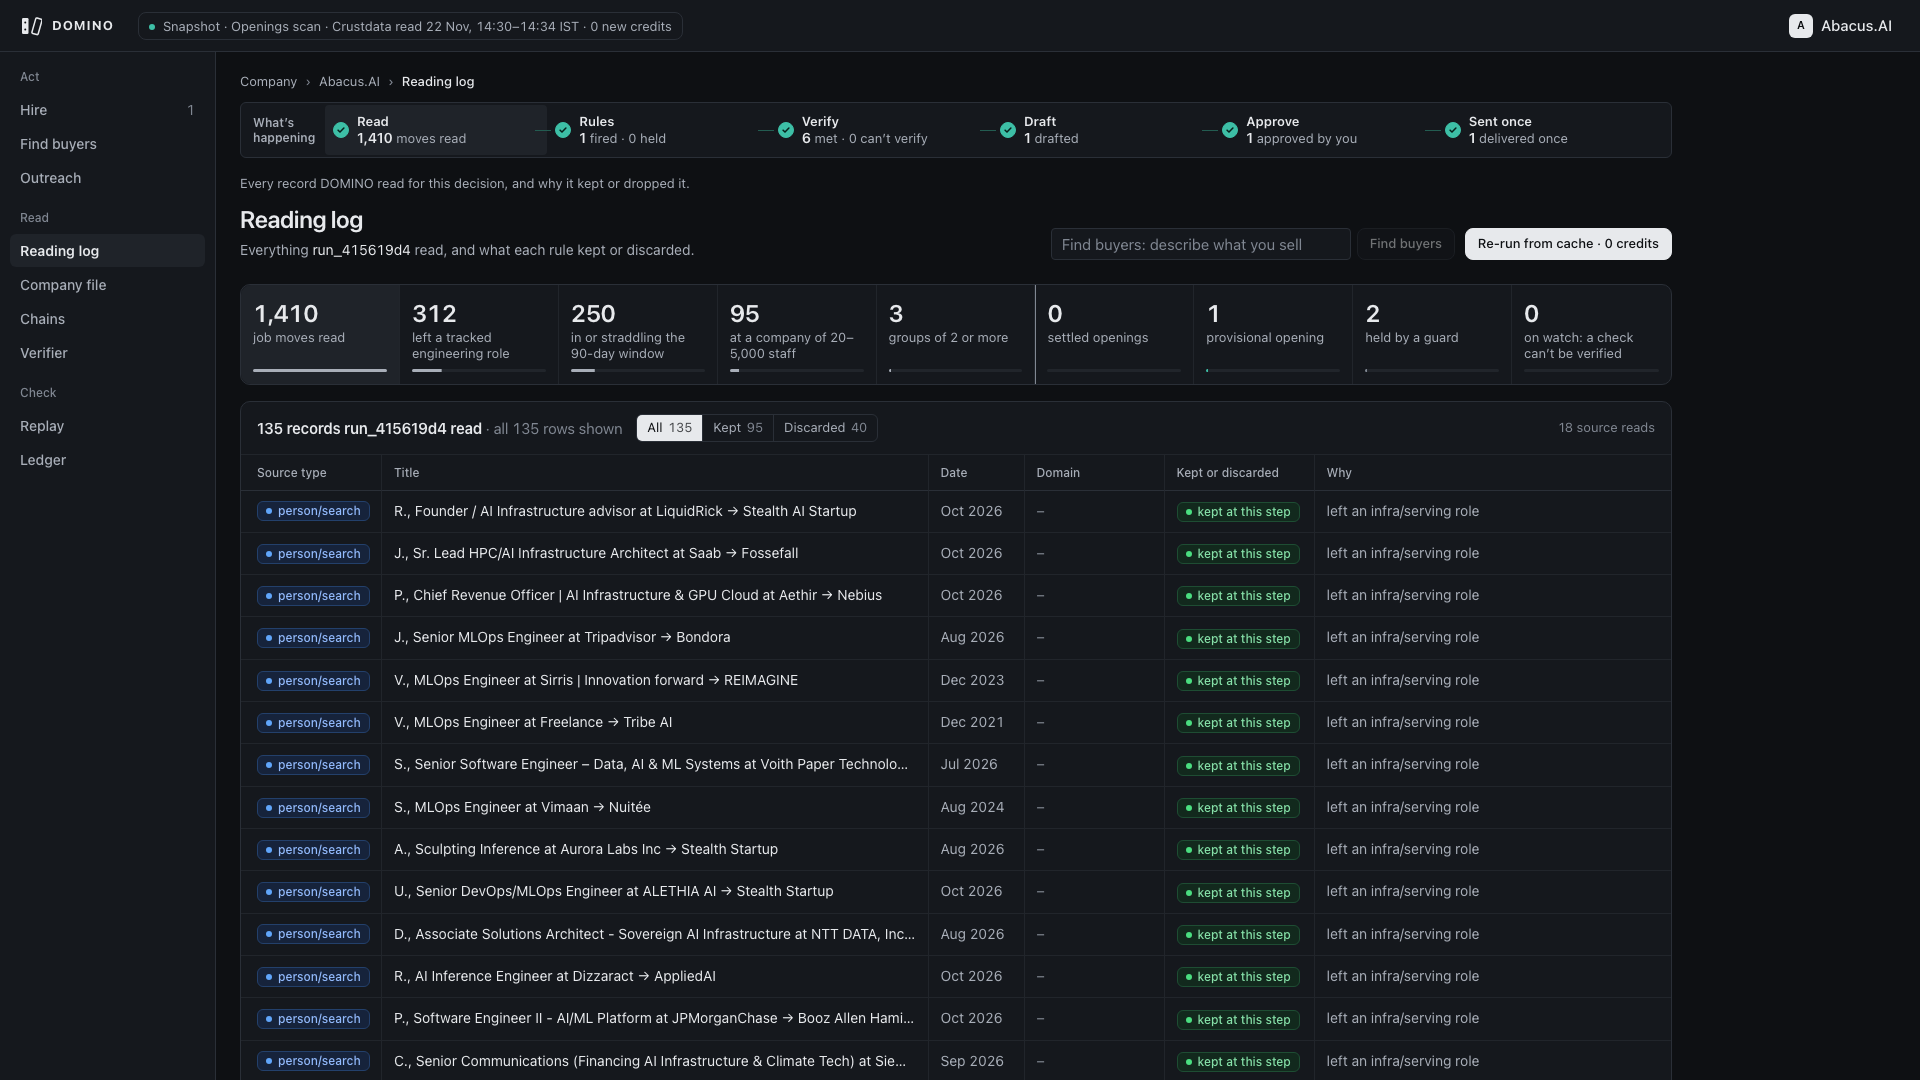
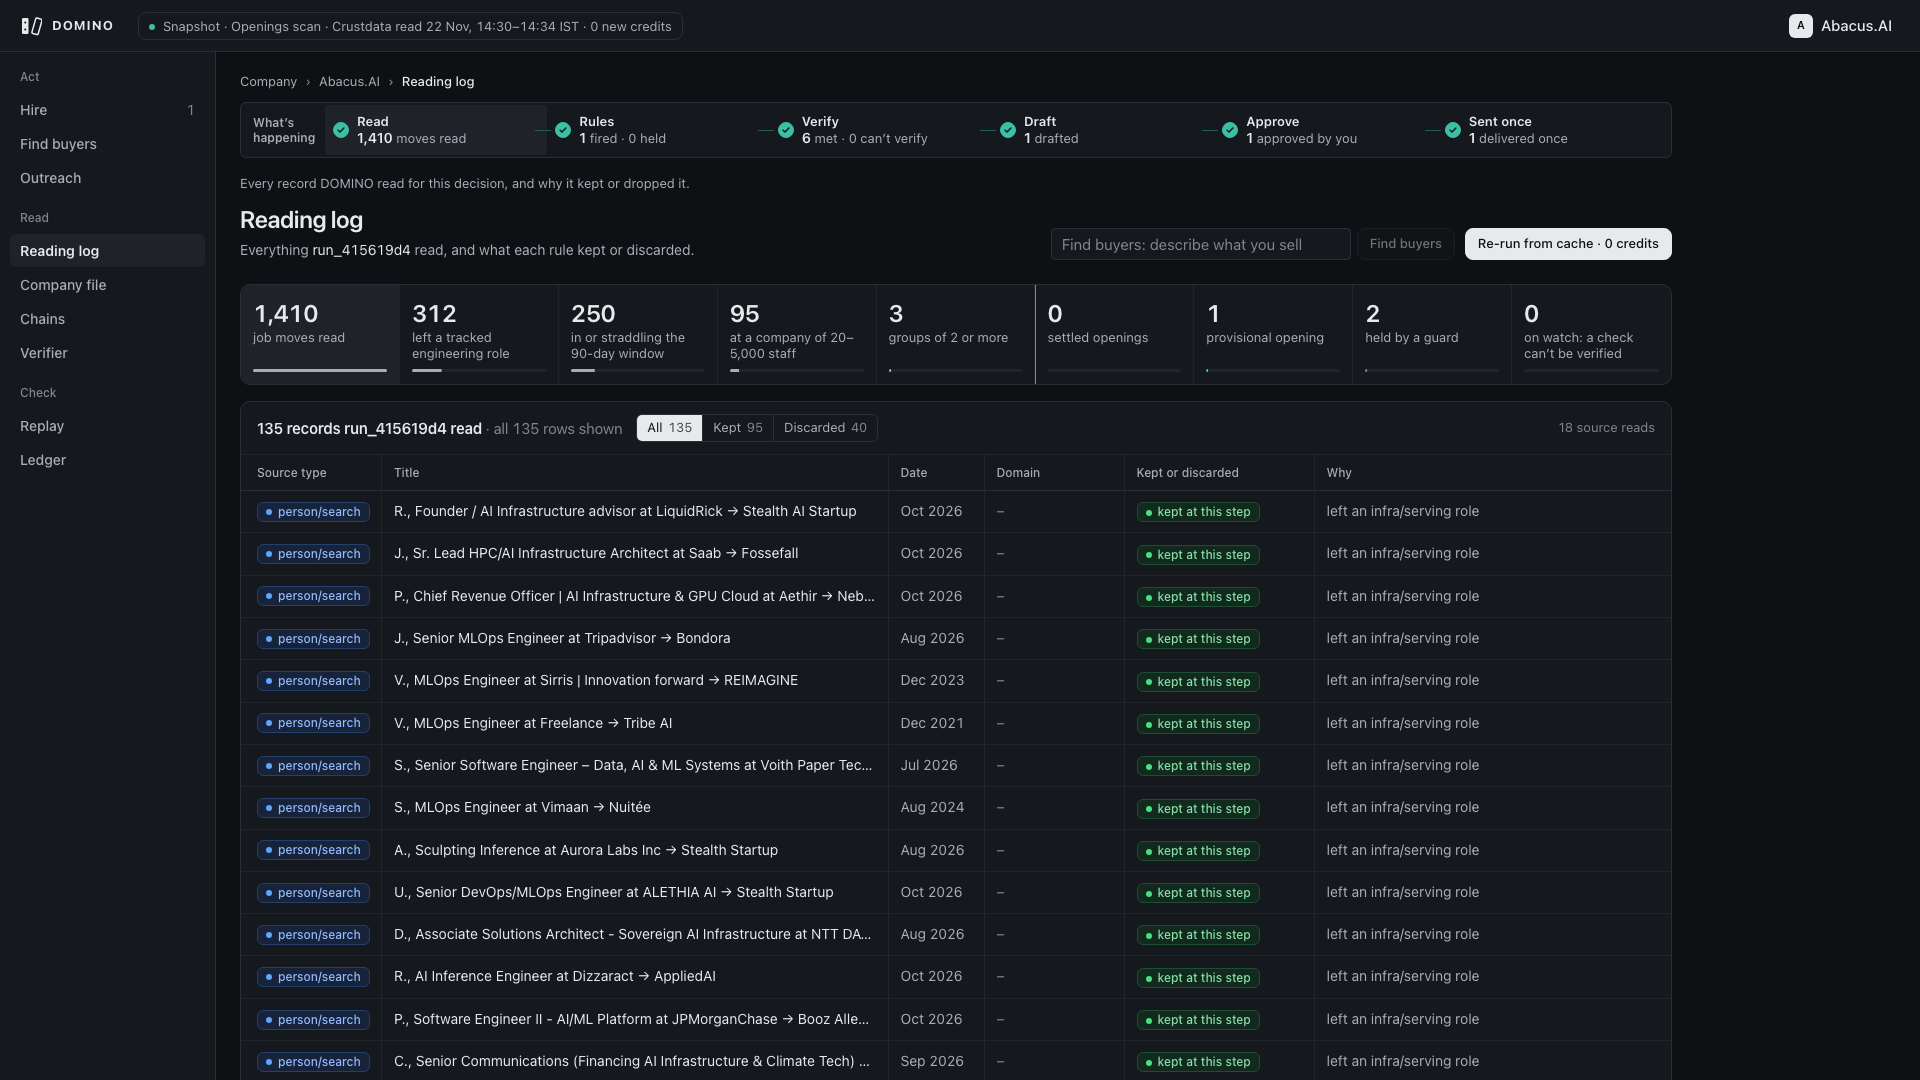
Reading log: discarded rows are neutral grey (tone-not-evaluated) labelled "Discarded · reason"; red stays for not met / can't verify

diff --git a/web2/src/features/reading/Reading.tsx b/web2/src/features/reading/Reading.tsx
@@ -291,7 +291,7 @@ const Row = memo(function Row({ r, settled }: { r: LogRow; settled: boolean }) {
       <td className="rd-title" title={r.title}>{r.title}</td>
       <td className="rd-date" title={r.monthLevel ? 'month-level date' : undefined}>{r.date}</td>
       <td className={r.domain ? 'mono rd-dom' : 'faint'} title={r.domain ?? 'no domain on record'}>{r.domain ?? '–'}</td>
-      <td className="rd-dec"><DecisionMark d={r.decision} /></td>
+      <td className="rd-dec"><DecisionMark d={r.decision} why={r.why[0]} /></td>
       <td className="muted rd-why">{r.why.map((w, i) => <Clause key={i} text={w} />)}</td>
     </tr>
   );
@@ -305,12 +305,14 @@ function Clause({ text }: { text: string }) {
 }
 
 /** Decision and source chips use the shared colour classes (styles/colors.css): one hue per meaning on every screen. */
+// Discarding is a rule outcome, not a failure: neutral grey, with its reason. Red stays for not met / can't verify.
 const TONE: Record<Decision, string> = {
-  kept: 'tone-met', provisional: 'tone-provisional', discarded: 'tone-not-met', held: 'tone-held', inconclusive: 'tone-not-evaluated',
+  kept: 'tone-met', provisional: 'tone-provisional', discarded: 'tone-not-evaluated', held: 'tone-held', inconclusive: 'tone-not-evaluated',
 };
-function DecisionMark({ d }: { d: Decision }) {
-  const label = d === 'kept' ? 'kept at this step' : d === 'inconclusive' ? 'not conclusive' : d;
-  return <span className={`ctag ${TONE[d]}`}>{label}</span>;
+function DecisionMark({ d, why }: { d: Decision; why?: string }) {
+  const reason = d === 'discarded' && why ? why.replace(/^(✓|⏳?)\s*/, '') : '';
+  const label = d === 'kept' ? 'kept at this step' : d === 'inconclusive' ? 'not conclusive' : d === 'discarded' ? (reason ? `Discarded · ${reason}` : 'Discarded') : d;
+  return <span className={`ctag ${TONE[d]} rd-dec-tag`} title={label}>{label}</span>;
 }
 
 function srcClass(source: string): string {

diff --git a/web2/src/features/reading/reading.css b/web2/src/features/reading/reading.css
@@ -144,5 +144,8 @@ tr:not(.rd-sub) + .rd-sub td, .rd-sub + .rd-sub td { border-top: 0; }
 .rd-table .rd-sub td { padding-top: 6px; padding-bottom: 6px; }
 .rd-table .ctag { height: 20px; }
 .rd-table .c-src { width: 140px; }
+.rd-table .c-dec { width: 190px; }
+.rd-dec-tag { max-width: 100%; overflow: hidden; text-overflow: ellipsis; white-space: nowrap; display: inline-block; line-height: 18px; }
+.rd-dec-tag::before { display: inline-block; margin-right: 6px; vertical-align: middle; }
 .rd-dom { font-family: var(--sans); font-size: var(--fs-ui); letter-spacing: 0; }
 
